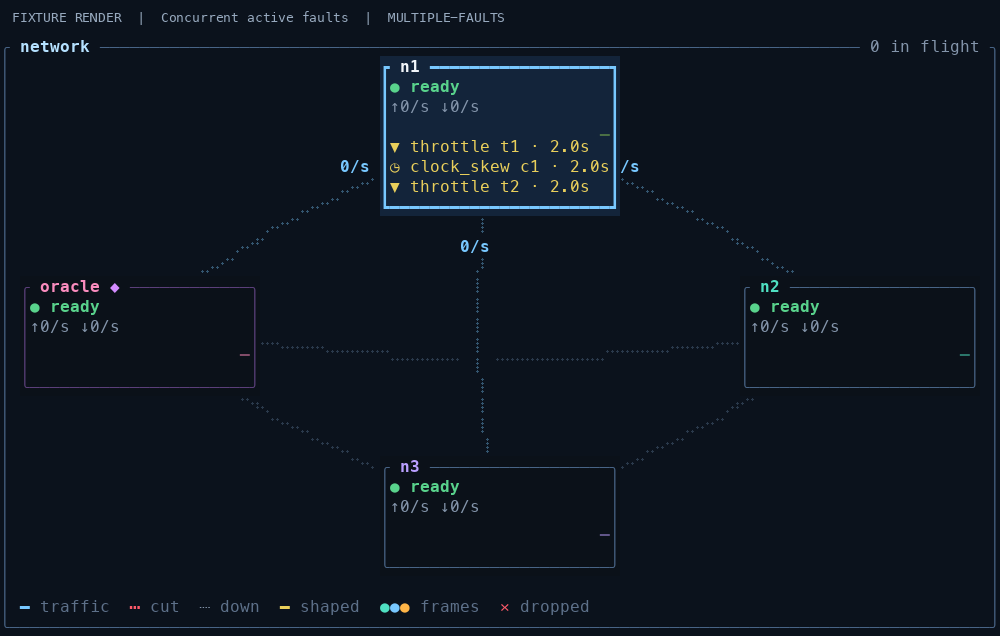
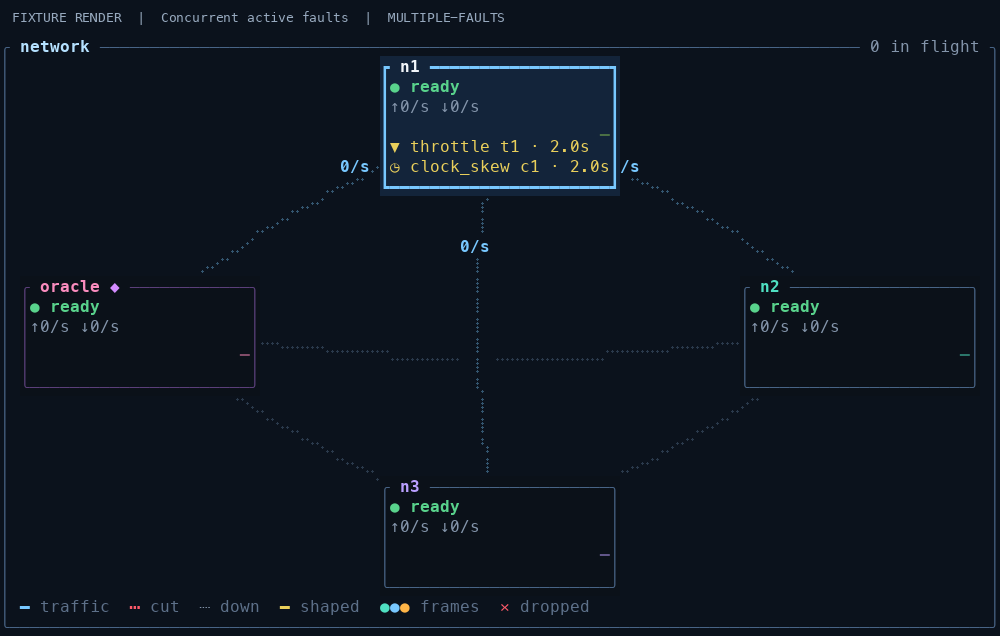
Use supported concurrent faults in tile regression fixture

Changed region(s): [[0.372, 0.2689, 0.62, 0.3585], [0.372, 0.717, 0.465, 0.8365], [0.589, 0.8962, 0.62, 0.9261]]

diff --git a/crates/seedbox-tui/src/view.rs b/crates/seedbox-tui/src/view.rs
@@ -3752,11 +3752,7 @@ mod tests {
         let mut app = app(&["n1", "n2", "n3", "oracle"]);
         let mut w = world(&["n1", "n2", "n3", "oracle"]);
         w.simulated_time_ns = 3_000_000_000;
-        for (id, action, handle) in [
-            (1, "throttle", "t1"),
-            (2, "clock_skew", "c1"),
-            (3, "throttle", "t2"),
-        ] {
+        for (id, action, handle) in [(1, "throttle", "t1"), (2, "clock_skew", "c1")] {
             w.faults.push(FaultState {
                 input_key: None,
                 id,
@@ -3805,8 +3801,7 @@ mod tests {
             }
             assert_eq!(tile.contains("throttle t1 · 2.0s"), !healed, "{tile}");
             assert!(tile.contains("clock_skew c1 · 2.0s"), "{tile}");
-            assert!(tile.contains("throttle t2 · 2.0s"), "{tile}");
-            assert_eq!(rect.height, if healed { 7 } else { 8 });
+            assert_eq!(rect.height, if healed { 6 } else { 7 });
         }
     }
 }
